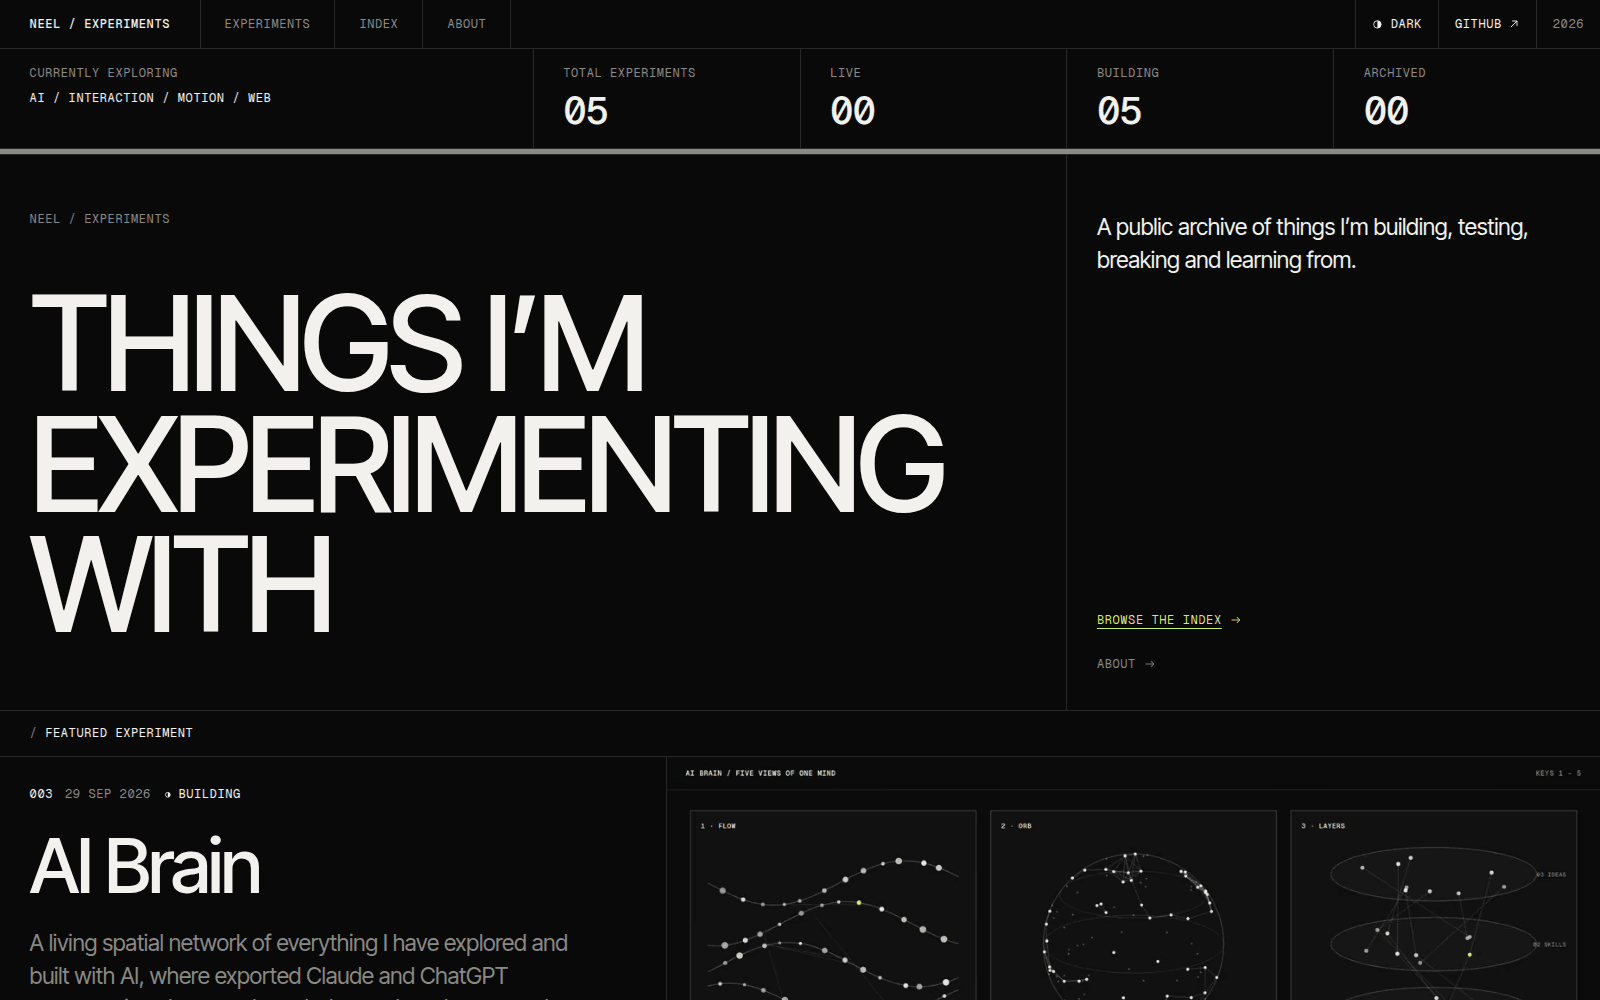
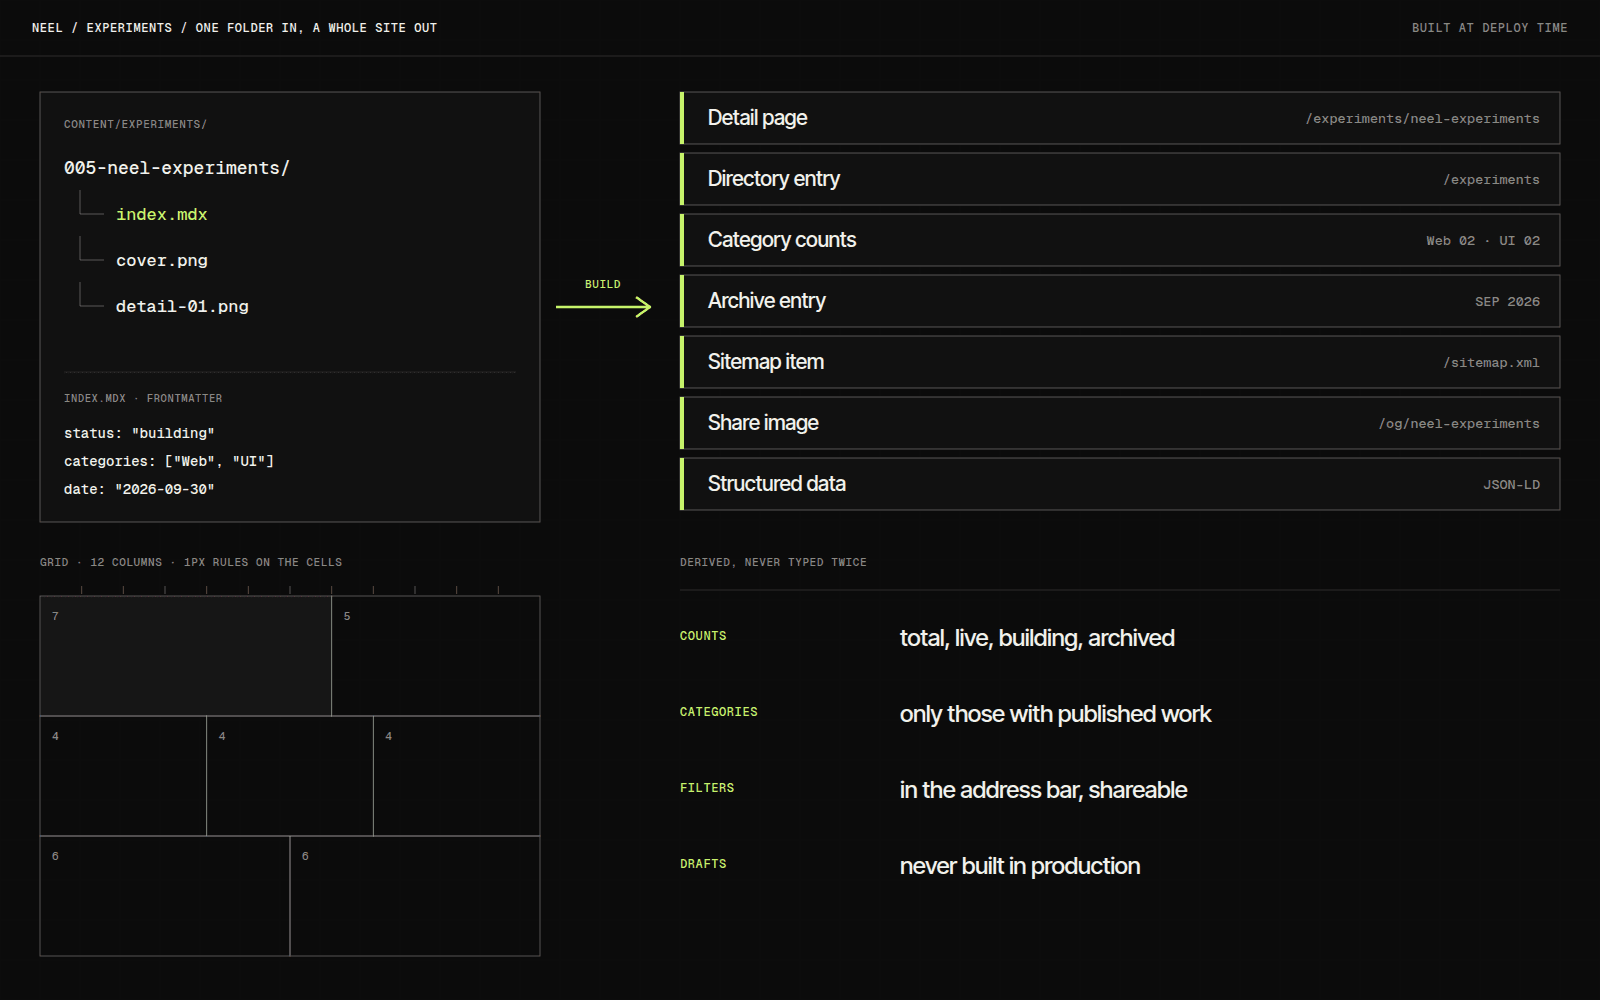
Fix self-referential cover, add Inspira Web Store link
- The site's own entry used a screenshot of the home page, so the home page's Latest section
  showed a miniature copy of itself. Replace both images with schematic diagrams (one entry
  folder in, the derived pages out; how the grid draws its rules) and update their alt text
  and captions. README now says not to screenshot the site on its own entry.
- Keep the Jarvis cover's "heard" box inside the crop-safe area of narrower tiles.
- Link Inspira 2.0 to its Chrome Web Store listing (demoUrl, tracking parameters removed).
  The demo label now reflects the destination (Chrome Web Store, App Store, TestFlight,
  Google Play, otherwise Live demo), with a unit test.

Claude-Session: https://claude.ai/code/session_01AzdNgeSvErPZZ8PFW6E9Yw

diff --git a/lib/links.test.ts b/lib/links.test.ts
@@ -1,0 +1,19 @@
+import { describe, expect, it } from 'vitest'
+import { demoLabel } from '@/lib/links'
+
+describe('demoLabel', () => {
+  it.each([
+    [
+      'https://chromewebstore.google.com/detail/inspira/ohdnckjldimefbkmmpjmmcahiiapemff',
+      'Chrome Web Store',
+    ],
+    ['https://chrome.google.com/webstore/detail/x/abc', 'Chrome Web Store'],
+    ['https://apps.apple.com/app/id1', 'App Store'],
+    ['https://testflight.apple.com/join/abc', 'TestFlight'],
+    ['https://play.google.com/store/apps/details?id=x', 'Google Play'],
+    ['https://example.com/demo', 'Live demo'],
+    ['not a url', 'Live demo'],
+  ])('%s → %s', (url, label) => {
+    expect(demoLabel(url)).toBe(label)
+  })
+})

diff --git a/components/experiment-meta.tsx b/components/experiment-meta.tsx
@@ -2,6 +2,7 @@ import Link from 'next/link'
 import { ExternalLink } from '@/components/external-link'
 import { StatusBadge } from '@/components/status-badge'
 import { cn } from '@/lib/cn'
+import { demoLabel } from '@/lib/links'
 import type { Experiment, ExperimentCard } from '@/lib/content/types'
 import { formatDate } from '@/lib/format'
 
@@ -71,7 +72,7 @@ function MetaList({ experiment }: { experiment: MetaSource }) {
           href={experiment.demoUrl}
           className="min-h-11 text-accent underline underline-offset-4 md:min-h-0"
         >
-          Live demo
+          {demoLabel(experiment.demoUrl)}
         </ExternalLink>
       ),
     })

diff --git a/lib/links.ts b/lib/links.ts
@@ -1,0 +1,15 @@
+/** Label for an entry's demoUrl, based on where it points. */
+export function demoLabel(url: string): string {
+  let host = ''
+  try {
+    host = new URL(url).hostname.replace(/^www\./, '')
+  } catch {
+    return 'Live demo'
+  }
+  if (host === 'chromewebstore.google.com' || host === 'chrome.google.com')
+    return 'Chrome Web Store'
+  if (host === 'apps.apple.com') return 'App Store'
+  if (host === 'testflight.apple.com') return 'TestFlight'
+  if (host === 'play.google.com') return 'Google Play'
+  return 'Live demo'
+}

diff --git a/README.md b/README.md
@@ -70,7 +70,7 @@ The controlled list lives in `categoryDefinitions` in [`lib/site-config.ts`](lib
 
 `content/experiments/` holds five entries: Inspira 2.0, OneMoment, AI Brain, Jarvis Wallpaper and this site. They were written from each project's own README and product docs, and from the project manifests, so the facts match the repositories. Everything is marked `building` because none of them has a confirmed public release yet. When one ships, change `status` to `live` and add `demoUrl`.
 
-The cover and detail images for the first four are schematic diagrams drawn from those documents (view names, hubs, modes, data flow), not screenshots, and their captions say so. Swap in real screenshots whenever you have them: keep the file name and update `coverAlt`. The images for this site's own entry are real screenshots.
+The cover and detail images are schematic diagrams drawn from those documents (view names, hubs, modes, data flow, how the site is built), not screenshots, and their captions say so. Swap in real screenshots whenever you have them: keep the file name and update `coverAlt`. Avoid screenshots of this site on its own entry, because the home page would then show a copy of itself.
 
 OneMoment lives in a private repository, so its entry has no source link and stays high-level. Check that you are comfortable with everything it says before you deploy.
 
